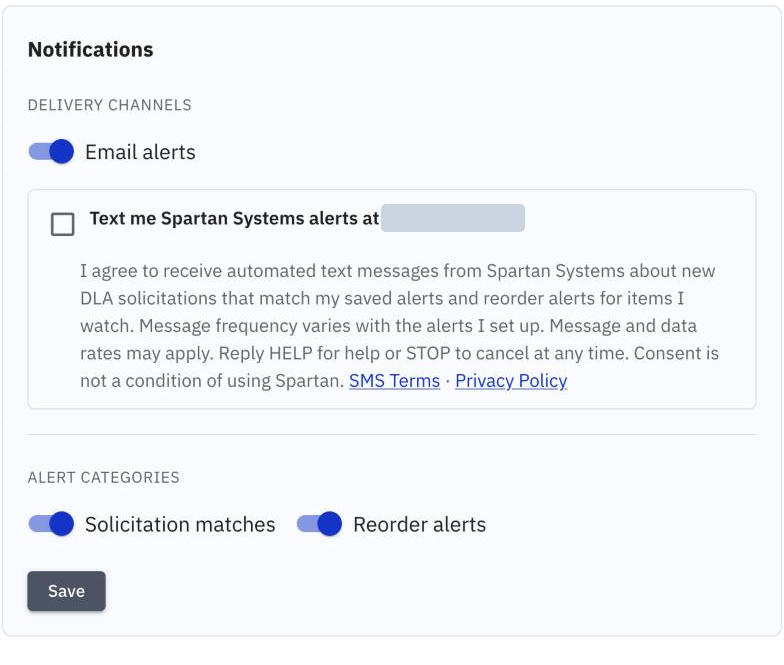
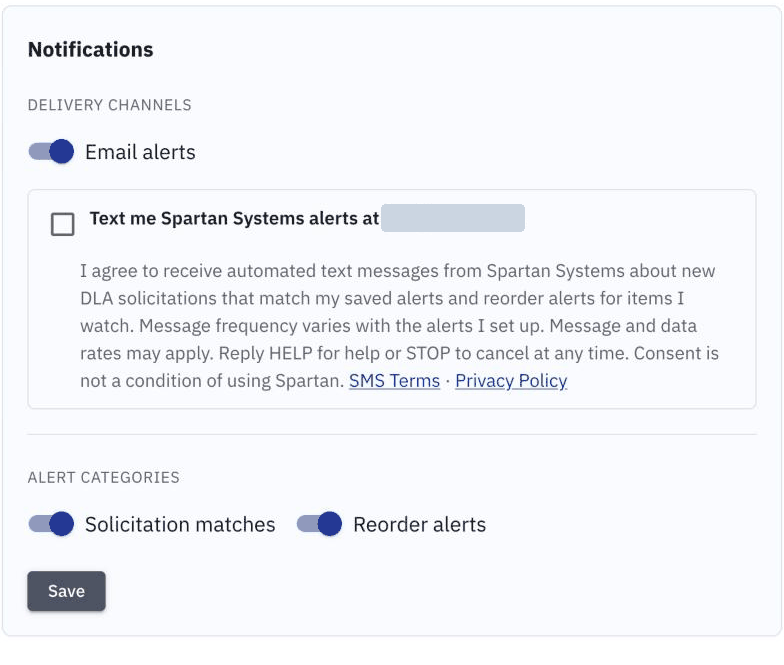
SMS terms: no promised STOP reply; screenshot fixes; CLAUDE.md
STOP's confirmation text is Twilio's, not ours, so the page no longer
promises one. The step 1 redaction bar now covers only the number (it hid
"to"), the step 3 screenshot is palette-quantized (194 KB to 69 KB), and
CLAUDE.md says the head tags are on every page, not both. Review findings
on #17.

diff --git a/sms/index.html b/sms/index.html
@@ -158,7 +158,7 @@
   <span class="sms">Spartan Systems: You're signed up for alert texts. Msg frequency varies. Msg &amp; data rates may apply. Reply HELP for help, STOP to cancel.</span>
 
   <h2 id="stop">3. How to stop</h2>
-  <p>Reply <strong>STOP</strong> to any message (CANCEL, END, QUIT, UNSUBSCRIBE and STOPALL work too). You'll get one message confirming you're unsubscribed, and no more alerts after that. You can also untick the box in <strong>Settings → Notifications</strong> and save.</p>
+  <p>Reply <strong>STOP</strong> to any message (CANCEL, END, QUIT, UNSUBSCRIBE and STOPALL work too). You're unsubscribed straight away and get no more alerts. You can also untick the box in <strong>Settings → Notifications</strong> and save.</p>
   <p>To sign up again, reply <strong>START</strong> or tick the box again.</p>
 
   <h2 id="help">4. Help</h2>

diff --git a/CLAUDE.md b/CLAUDE.md
@@ -1,10 +1,10 @@
 # Spartan Systems Marketing Site
 
-Static marketing site (home page plus a privacy policy) served by GitHub Pages at **spartansystems.us** (apex domain via `CNAME` file). No build step, no framework, no dependencies.
+Static marketing site (home page, privacy policy and SMS terms) served by GitHub Pages at **spartansystems.us** (apex domain via `CNAME` file). No build step, no framework, no dependencies.
 
 - `privacy/index.html` is the privacy policy (served at `/privacy/`), linked from the footer here and from the app. Keep it in step with what the product actually collects and which providers receive data.
 - `sms/index.html` is the SMS Alerts Terms (`/sms/`), the public opt-in proof for Twilio toll-free verification, linked from the app's consent box. Its consent text, confirmation and HELP replies must match the app's Notifications section and spartan-api's `SmsProgram`; the `sms/opt-in-*.png` screenshots show the app's opt-in steps.
-- Everything else lives in `index.html`: inline CSS (custom properties like `--navy`, `--blue2`), one inline script (IntersectionObserver reveal animations + screenshot tab switcher). External resources are Google Fonts (Inter), the Google Ads tag (`AW-17734229904`, in the `<head>` of both pages, ad personalization off; the policy's cookies section depends on that), and PostHog (same project and token as the app, `cross_subdomain_cookie` so data.spartansystems.us continues the visitor's ID; covered by the policy's PostHog lines).
+- Everything else lives in `index.html`: inline CSS (custom properties like `--navy`, `--blue2`), one inline script (IntersectionObserver reveal animations + screenshot tab switcher). External resources are Google Fonts (Inter), the Google Ads tag (`AW-17734229904`, in the `<head>` of every page, ad personalization off; the policy's cookies section depends on that), and PostHog (same project and token as the app, `cross_subdomain_cookie` so data.spartansystems.us continues the visitor's ID; covered by the policy's PostHog lines).
 - All CTAs point to the product app: Log In to `https://data.spartansystems.us/login`, Sign Up to `/login?mode=signup` (opens Create Account); contact is `mailto:sales@spartansystems.us`.
 - The `screen_*.png` screenshots are of the `government-data` app and go stale when its UI changes.
 - Deploy = push to the default branch (Pages serves the branch directly; there is no Actions workflow).
